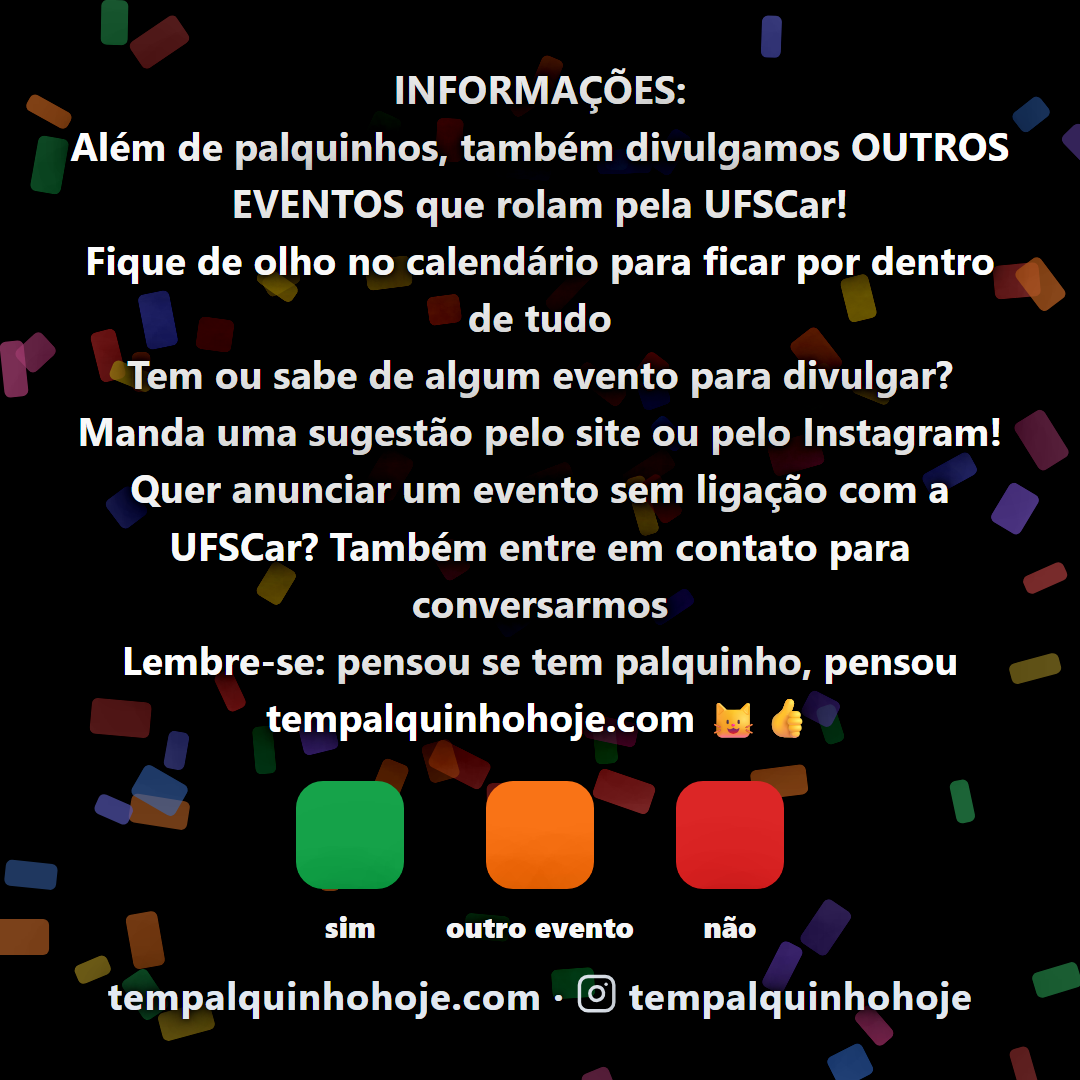
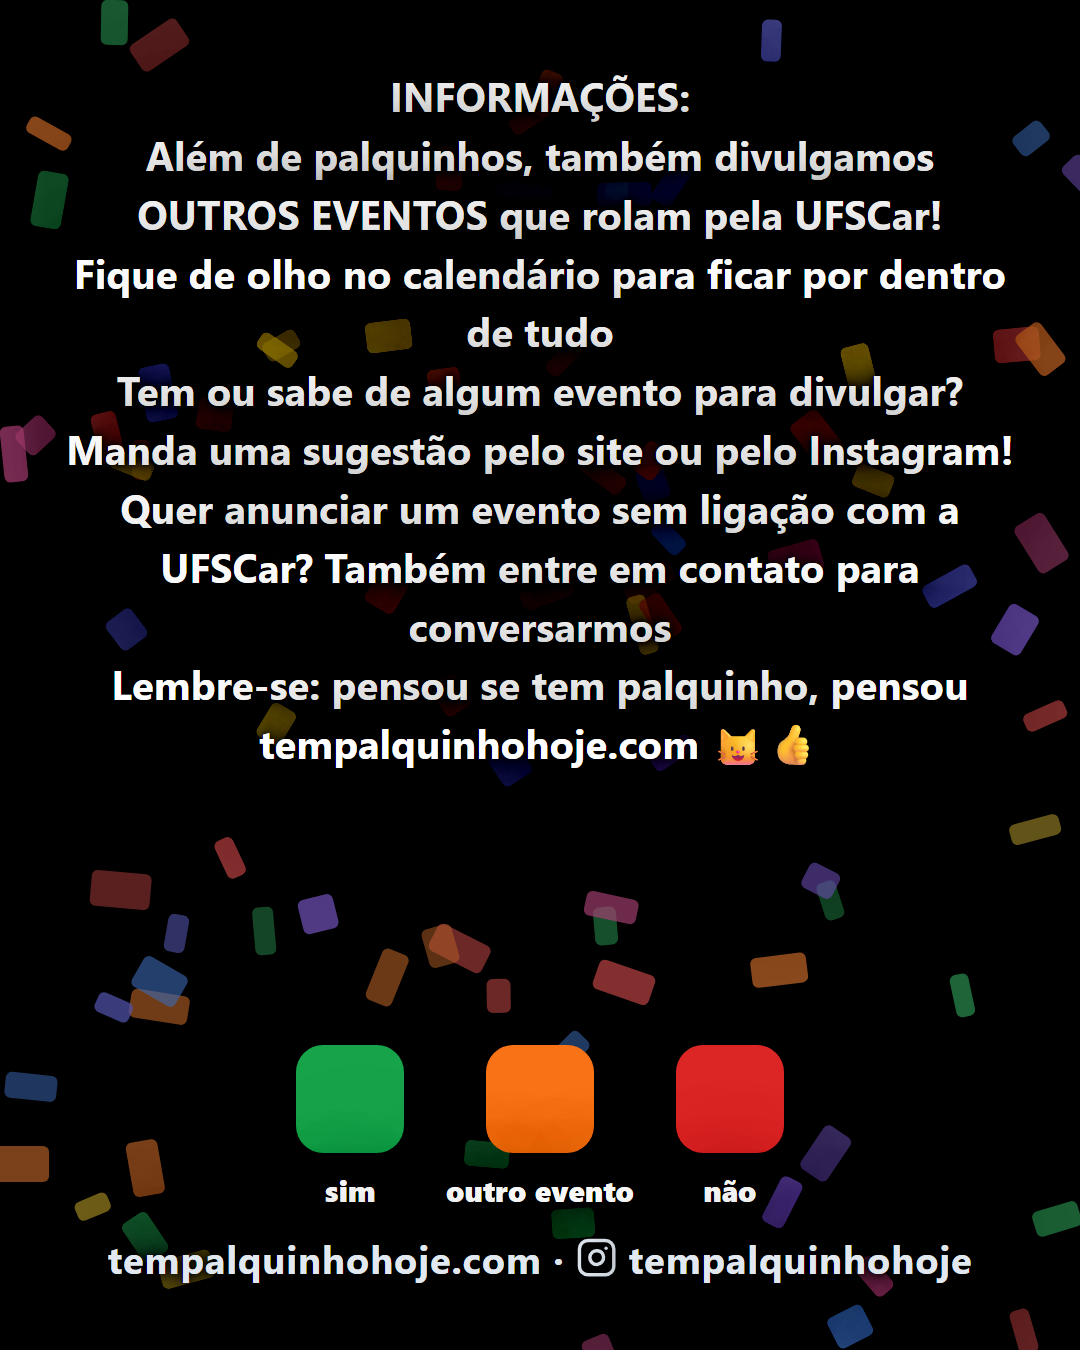
feat(instagram): post template para 4:5 (1080x1350)

diff --git a/instagram/post-exact.html b/instagram/post-exact.html
@@ -7,7 +7,7 @@
   :root { --green:#16a34a; --red:#dc2626; --orange:#f97316; }
   body {
     font-family: system-ui, -apple-system, 'Segoe UI', Roboto, sans-serif;
-    background:#000; width:360px; height:360px; overflow:hidden;
+    background:#000; width:360px; height:450px; overflow:hidden;
   }
 
   .sc-card {
@@ -15,16 +15,16 @@
     display:flex; flex-direction:column; align-items:center; justify-content:space-between;
     text-align:center;
   }
-  .sc-feed { width:360px; height:360px; padding:20px; }
+  .sc-feed { width:360px; height:450px; padding:22px; }
 
   .sc-top, .sc-bottom { position:relative; z-index:2; width:100%; }
   .sc-content {
     position:relative; z-index:2; width:100%;
-    display:flex; flex-direction:column; align-items:center; gap:10px;
+    display:flex; flex-direction:column; align-items:center; gap:12px;
   }
 
   .sc-note {
-    font-size:.82rem; font-weight:700; color:#ffffff; line-height:1.45;
+    font-size:.84rem; font-weight:700; color:#ffffff; line-height:1.46;
     white-space:pre-line;
     text-shadow: 0 0 2px #000, 0 0 5px #000, 0 0 11px #000, 0 0 24px rgba(0,0,0,1), 0 0 52px rgba(0,0,0,.98), 0 0 100px rgba(0,0,0,.92);
   }
